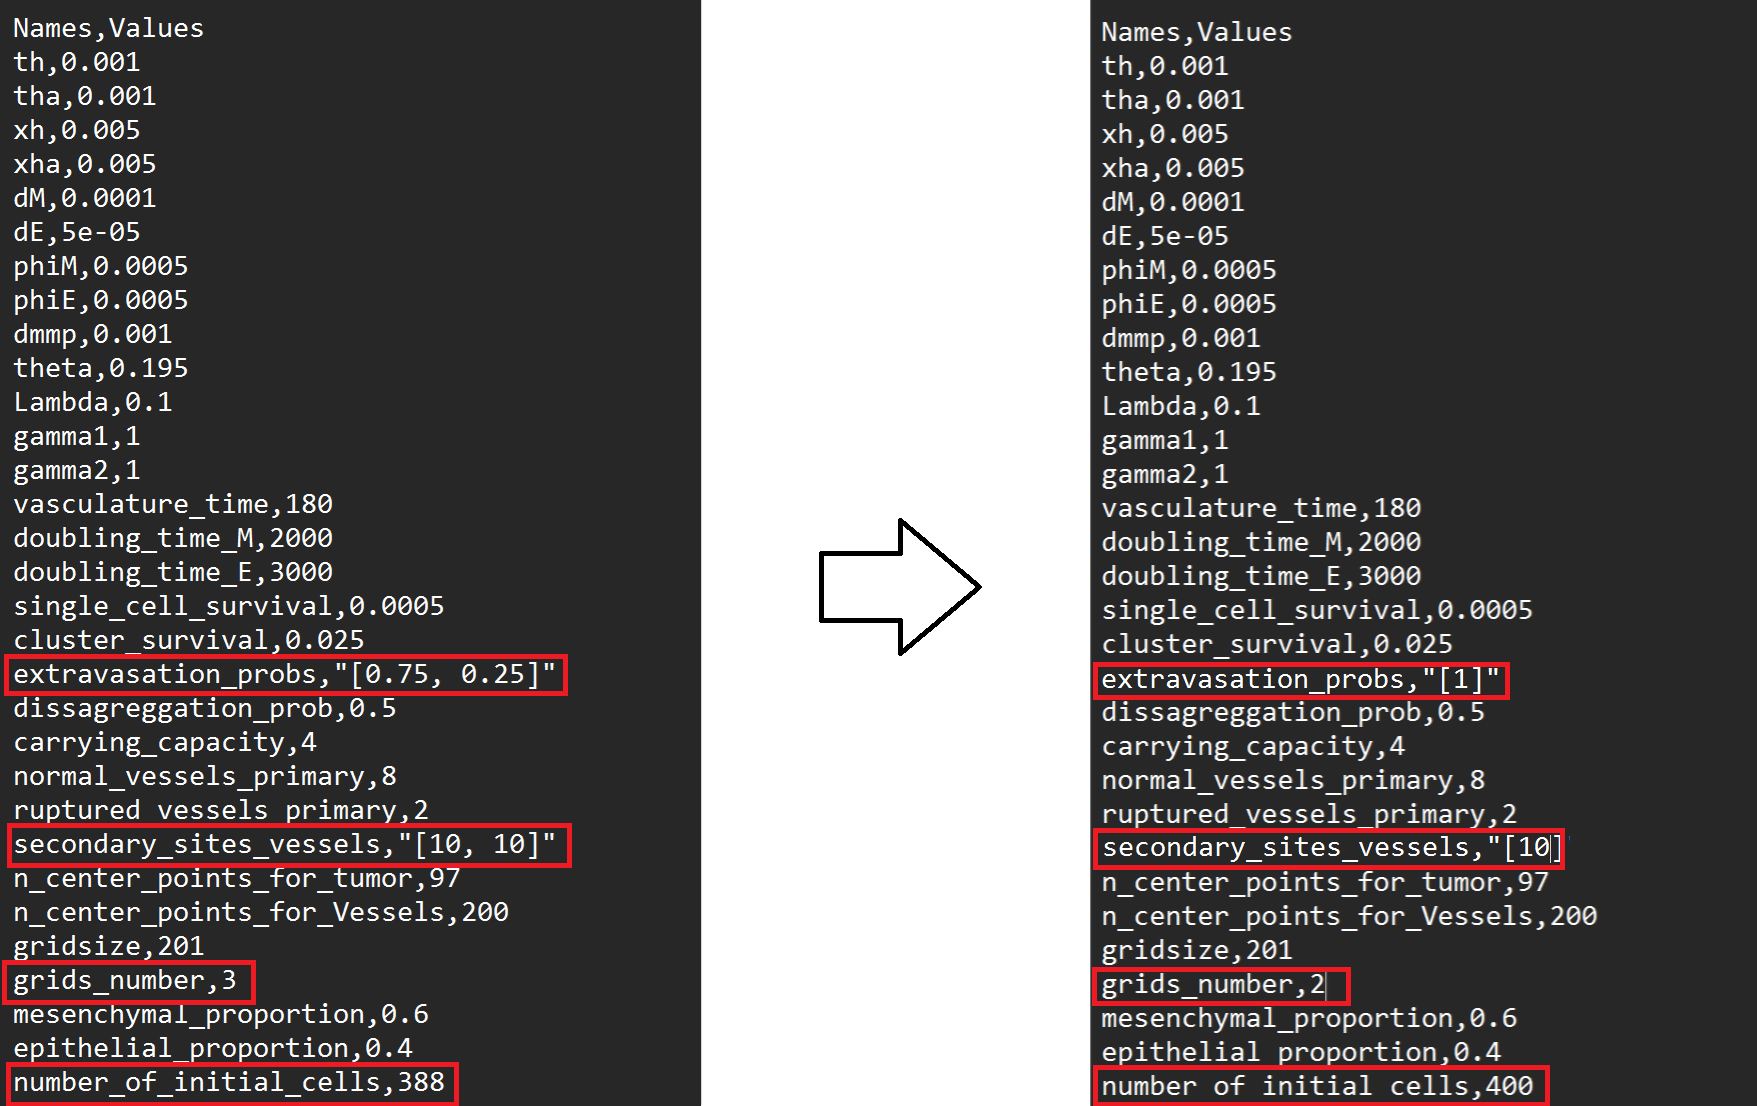
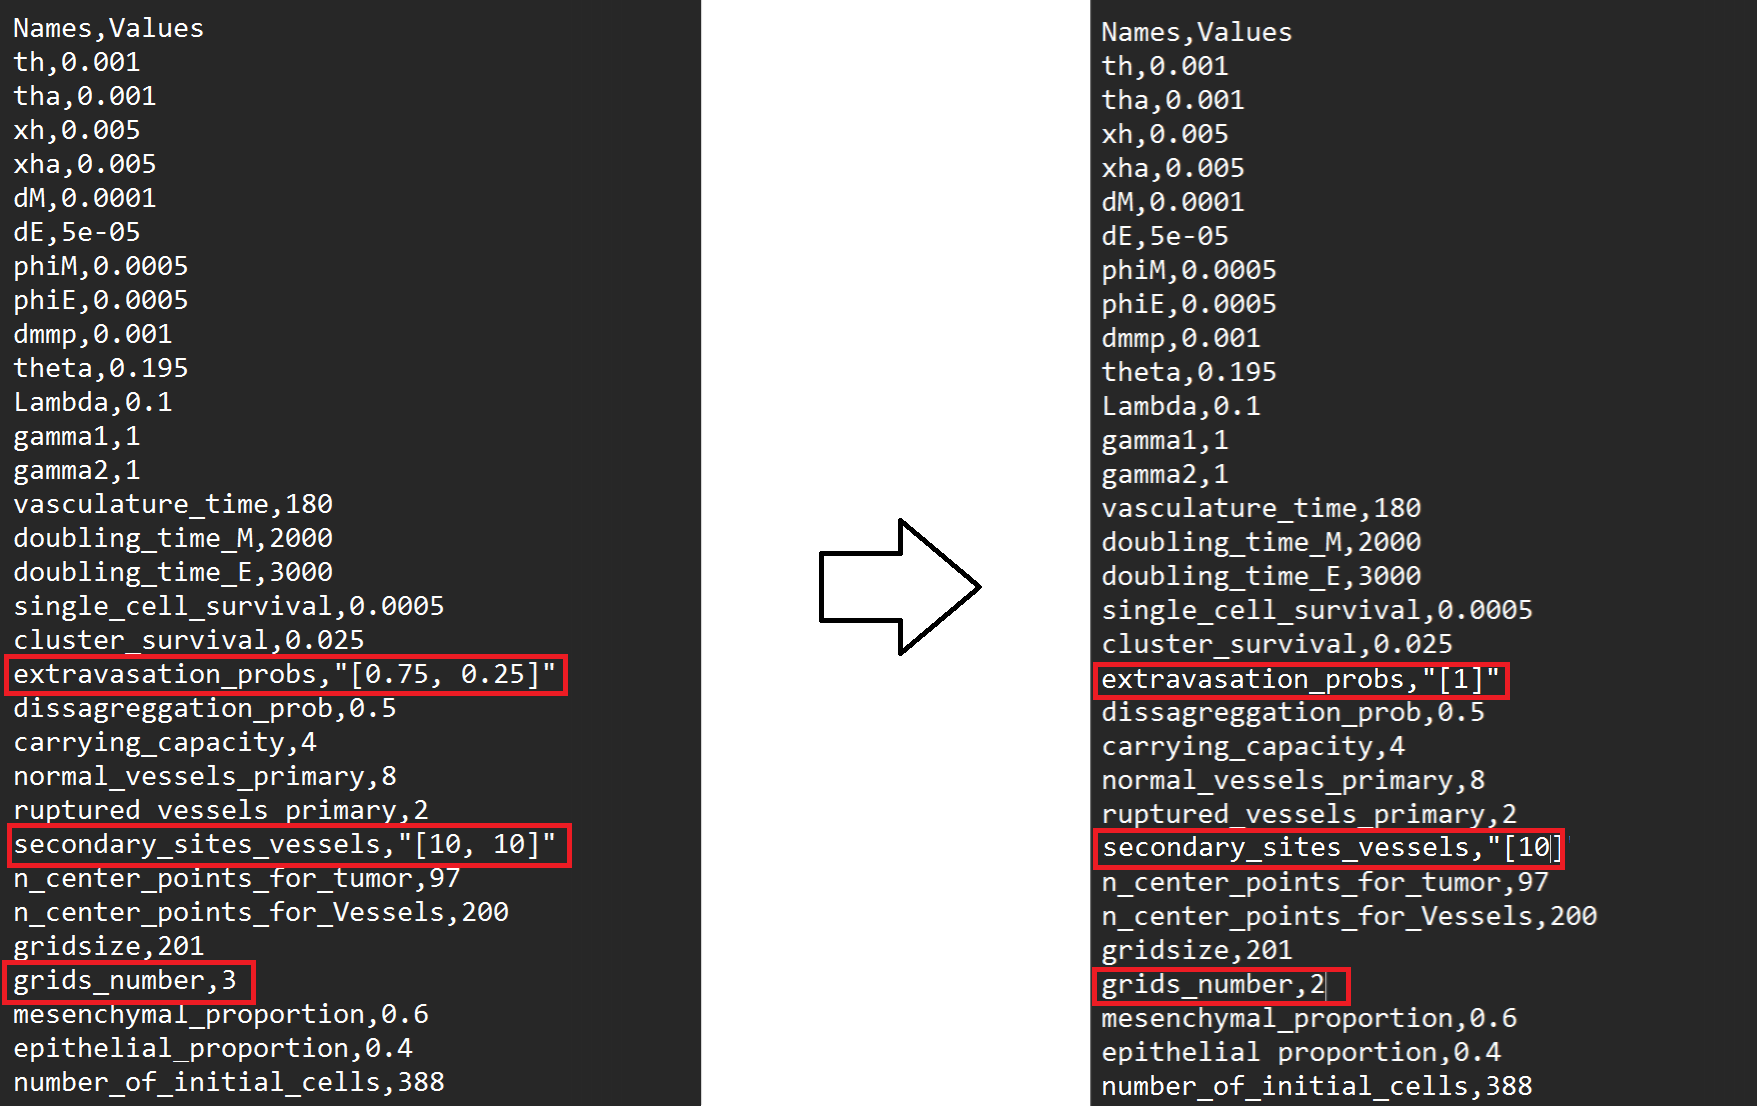
update tutorial in docs

Changed region(s): [[0.6147, 0.953, 0.8913, 1.0], [0.0, 0.953, 0.2766, 1.0]]

diff --git a/docs/source/tutorial-interactive.rst b/docs/source/tutorial-interactive.rst
@@ -23,12 +23,14 @@ or:
 Running metaspread
 ------------------
 
-Once installed, create a folder for this tutorial project. For example, this command will create a folder called "tutorial-interactive":
+Once installed, create a directory for this tutorial called "tutorial-interactive":
+
 .. code-block:: console
 
    mkdir tutorial-interactive
 
-Then, navigate to this folder:
+Then, navigate to the directory:
+
 .. code-block:: console
 
    cd tutorial-interactive
@@ -53,35 +55,70 @@ First, we will focus on running a new simulation.
 Running a Simulation
 --------------------
 
-1. **Editing the parameters**: the default parameters are already set in the ``simulation_configs.csv`` file. You can edit this file to change the parameters of your simulation. To edit the file, you can use any text editor or spreadsheet software that supports CSV format. For this tutorial, we will change the default cell number to 400, the number of grids to 2. For simplicity, we will use a text editor. The file should look like this:
+1. **Editing the parameters**: the default parameters are already set in the ``simulation_configs.csv`` file. You can edit this file to change the parameters of your simulation. To edit the file, you can use any text editor or spreadsheet software that supports CSV format. For this tutorial, we will change the number of grids to 2. For simplicity, we will use a text editor. The file should look like this:
 
-.. image:: notepad_parameters.png
+   .. image:: notepad_parameters.png
 
    In principle, in order to change the amount of initial cells, and the number of grids, it is only necessary to change the values in the ``cells`` and ``grids_number`` rows, respectively. 
 
-.. image:: changing_parameters_old.png
+   .. image:: changing_parameters_old.png
 
    However, this will give an error when running the simulation:
 
-.. image:: error_grids_number.png
+   .. image:: error_grids_number.png
 
-   This is because there are certain parameters that depend on the number of grids, such as the ``extravasation_probs`` and ``secondary_sites_vessels``. Thus, it is necessary to change these parameters as well. The ``extravasation_probs`` parameter should be a list of probabilities for each secondary grid, and the ``secondary_sites_vessels`` parameter should be a list of the number of vessels in each secondary grid.Both of these parameters should have a length equal to the number of grids - 1. Thus, we can change the parameters accordingly:
-   
-.. image:: changing_parameters.png
+   This is because there are certain parameters that depend on the number of grids, such as the ``extravasation_probs`` and ``secondary_sites_vessels``. Thus, it is necessary to change these parameters as well. The ``extravasation_probs`` parameter should be a list of probabilities for each secondary grid that sum up to 1, and the ``secondary_sites_vessels`` parameter should be a list of the number of vessels in each secondary grid.
+
+   Thus, both of these parameters should have a length equal to the number of grids - 1. Therefore, we can change the parameters accordingly:
+      
+   .. image:: changing_parameters.png
 
 2. **Start a simulation**: select the ``New Simulation`` option from the main menu.
-3. **Introduce the total time steps for the simulation**: you will be prompted to enter the total number of time steps for the simulation. For this tutorial, we will use 1000 time steps.
+3. **Introduce the total time steps for the simulation**: you will be prompted to enter the total number of time steps that the simulation will last. For this tutorial, we will use 1000 time steps.
 
 .. image:: select_total_timesteps.png
 
 4. **Introduce the interval for saving the results**: you will be prompted to enter the interval for saving the results. This is the number of time steps between each saved result. For this tutorial, we will use an interval of 50 time steps.
 
-.. image:: select_save_interval.png
+.. image:: select_saving_interval.png
 
-This will start the simulation, you will see the progress of the simulation in the terminal. The simulation will run for the specified number of time steps, saving the results at the specified interval:
-.. image:: simulation_progress.png
-A directory called ``Simulations`` will be created in the current directory, containing a subfolder with the name of the simulation. Inside this folder, you will find the results of the simulation.
+   This will start the simulation, and you will see the progress in the terminal. It will run for the specified number of time steps, saving the results at the specified interval:
 
-5. **Simulation completed**: once the simulation is completed, you will see a message indicating that the simulation has finished. You should see a folder named ``Sim-max_steps-1000-collection_period-50-cells-400-grids_number-2`` inside the simulators directory.
+   .. image:: simulation_progress.png
 
-Inside the details of the simulation including mmp2 and ecm concentrations, cell locations, and vasculature data will be saved in CSV files, in their respective folders. These files can be opened with any spreadsheet software or analyzed using Python or R, or with MetaSpread's built-in data analysis tools.
+   A directory called ``Simulations`` will be created in the current directory, containing a subfolder with the name of the simulation. Inside this folder, you will find the results of the simulation.
+
+5. **Simulation completed**: once the simulation is completed, you will see a message indicating that the simulation has finished. You should see a folder named ``Sim-max_steps-1000-collection_period-50-cells-400-grids_number-2`` inside the simulators directory. Every simulation will have a name associated with these four parameters: total time steps, data collection period, number of cells, and number of grids.
+
+   Inside the details of the simulation including mmp2 and ecm concentrations, cell locations, and vasculature data will be saved in CSV files, in their respective folders. These files can be opened with any spreadsheet software or analyzed using Python or R, or with MetaSpread's built-in data analysis tools.
+
+Postprocessing
+----------------
+
+After running the simulation, you can use the built-in data analysis and visualization tools. To access them, select the ``Postprocess Data`` option from the main menu.
+
+.. image:: main_menu_arrow_post.png
+
+This will open a new menu where you can select the simulation you want to analyze:
+
+.. image:: postprocessing_select_menu.png
+
+Select the simulation you just ran, and then select the type of postprocessing you want to perform. For this tutorial, we will select the ``Run all``, which will produce both the data analysis and the visualization.
+
+.. image:: postprocessing_menu.png
+
+This will generate a series of plots, videos, and files that summarize the results of the simulation. The CSV's will be saved in the Data Analysis directory, the plots in the Graphical Analysis directory, and the videos in the Videos directory.
+
+To watch the final result, go to the videos directory and open ``Tumor dynamics - Grid1.mp4``. You should see something like this:
+
+.. image:: video_tumor_dynamics.gif
+
+Perfect! You have successfully run a simulation in MetaSpread and visualized the results.
+
+Further comments
+----------------
+
+Although we ran and visualized a simulation successfully, if you open other videos, for example that account the Cells Numbers in grids 1 and in grid 2, you will see that nothing changes. That is because the parameters for cell reproduction are greater than our total time steps (2000 for mesenchymal and 3000 for epithelial), so the cells do not reproduce during the simulation. You can experiment by extending the total amount of time steps, or changing them for lower values in the ``simulation_configs.csv`` file to see how the simulation changes.
+
+
+
